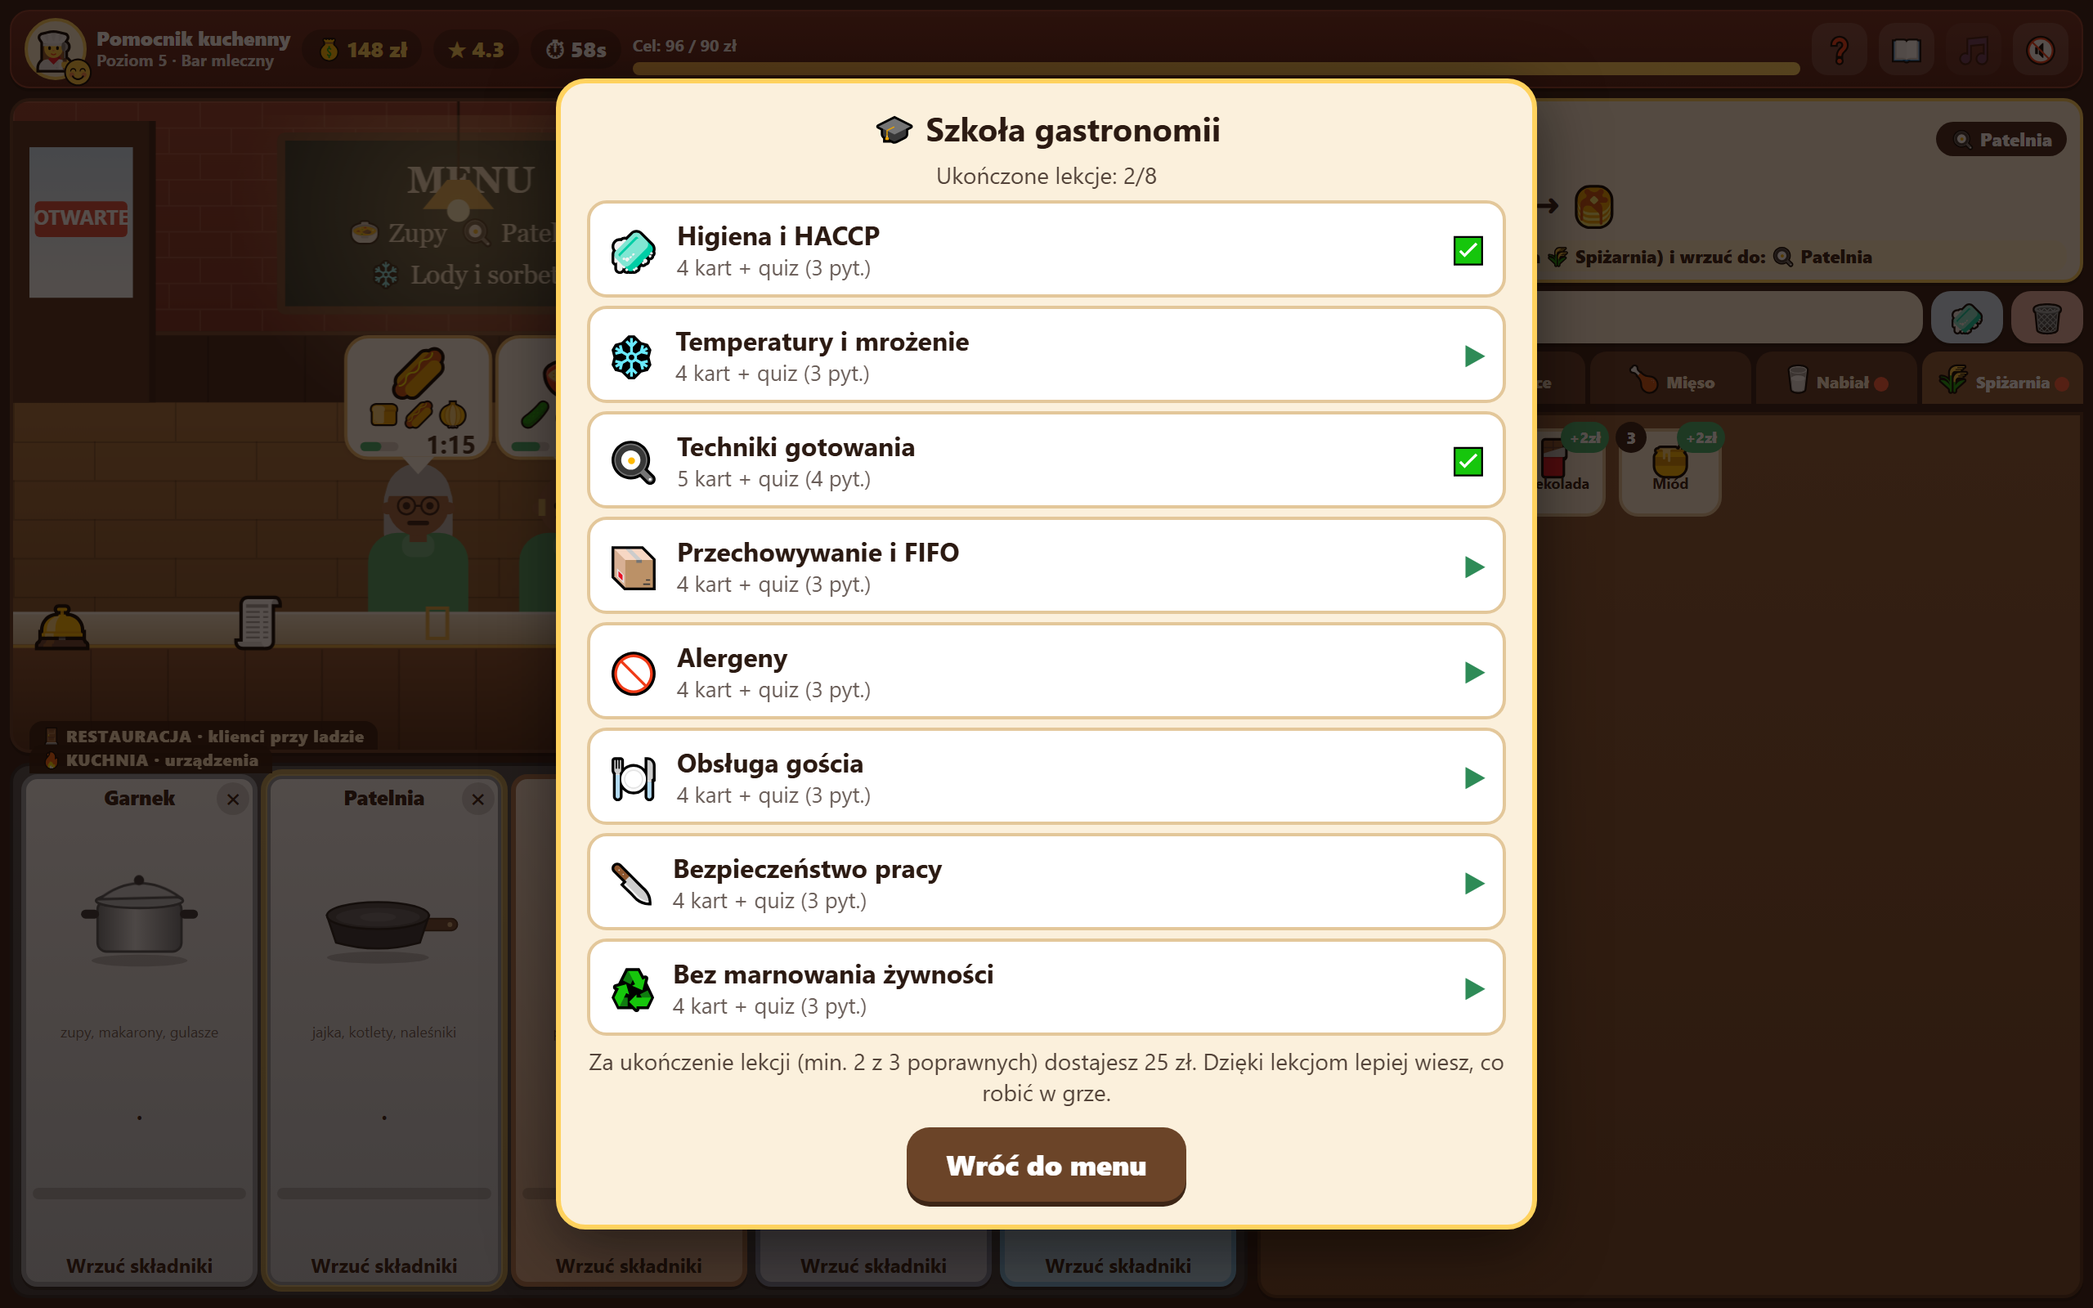
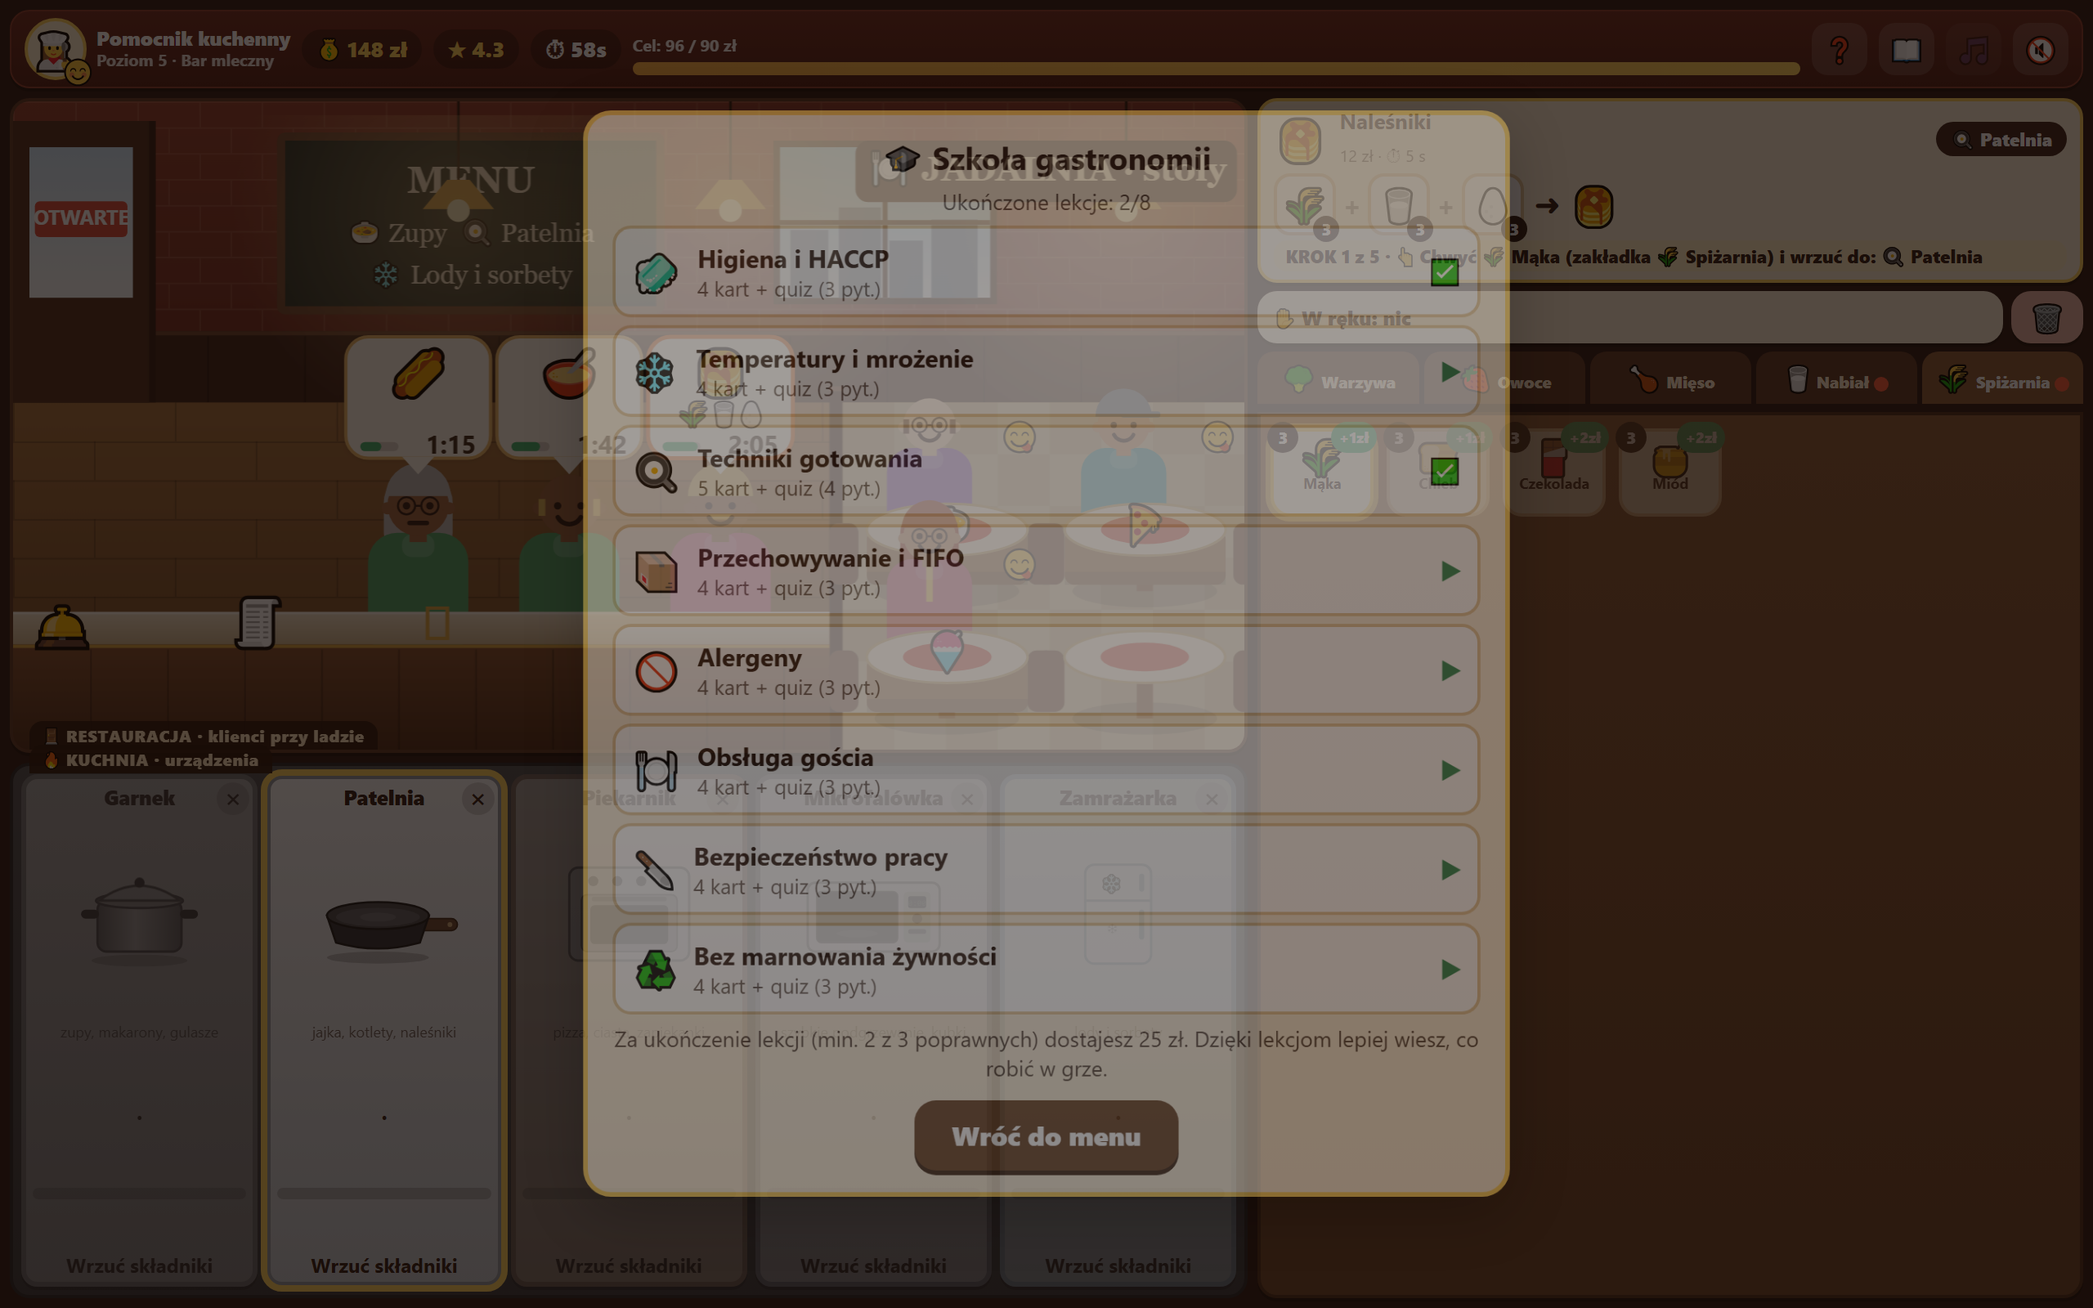
Pokazuj tylko to, co potrzebne w danym momencie: kroki, przyciemnienie, sortowanie

diff --git a/gotuj-i-mroz/android/app/src/main/assets/public/index.html b/gotuj-i-mroz/android/app/src/main/assets/public/index.html
@@ -188,6 +188,9 @@ button{font:inherit;color:inherit}
 #coach button.skip{background:#8a6a55;box-shadow:0 3px 0 #5a4030;font-size:12px;padding:6px 10px}
 #hhand{position:fixed;left:0;top:0;font-size:38px;line-height:1;pointer-events:none;z-index:40;display:none;filter:drop-shadow(0 4px 4px rgba(0,0,0,.5))}
 .st.micro{background:linear-gradient(#e8ecf3,#b3bccd);border-color:#6f7f9c}
+.st.dim{opacity:.5;filter:saturate(.5)}
+.tile.dimmed{opacity:.55}
+.rc-hint b{color:#b04a12}
 .st.drop{transform:scale(1.05);box-shadow:0 0 0 5px var(--gold),0 0 18px rgba(255,210,94,.9)}
 #ghost{position:fixed;left:0;top:0;pointer-events:none;font-size:46px;line-height:1;transform:translate(-50%,-70%) rotate(-8deg);z-index:30;display:none;filter:drop-shadow(0 8px 6px rgba(0,0,0,.45))}
 body.dragging,body.dragging *{cursor:grabbing!important}
@@ -1030,7 +1033,8 @@ function bubble(c){
   g.shadowColor="rgba(0,0,0,.35)";g.shadowBlur=6;
   g.fillStyle=c.type==="vip"?"#fff3cf":"#fffaf0";rr(g,bx,by,bw,bh,U*.7);g.fill();
   g.shadowBlur=0;
-  g.lineWidth=match?3:foc?2.5:2;g.strokeStyle=match?"#2fbf71":foc?"#f0762d":c.type==="vip"?"#e0a100":"#e8b86a";rr(g,bx,by,bw,bh,U*.7);g.stroke();
+  const urg=c.p/c.max<.2;
+  g.lineWidth=match?3:urg?3:foc?2.5:2;g.strokeStyle=match?"#2fbf71":urg?(Math.floor(performance.now()/300)%2?"#e5484d":"#ffb4a8"):foc?"#f0762d":c.type==="vip"?"#e0a100":"#e8b86a";rr(g,bx,by,bw,bh,U*.7);g.stroke();
   g.fillStyle=c.type==="vip"?"#fff3cf":"#fffaf0";g.beginPath();g.moveTo(c.x-U*.5,by+bh-1);g.lineTo(c.x,by+bh+U*.5);g.lineTo(c.x+U*.5,by+bh-1);g.fill();
   g.textAlign="center";g.textBaseline="middle";
   g.font=`${U*1.45}px ${EF}`;
@@ -1039,7 +1043,7 @@ function bubble(c){
     g.globalAlpha=o.got?.35:1;g.fillText(oEmoji(o),cx,by+U*1.25);
     g.globalAlpha=1;if(o.got)g.fillText("✅",cx,by+U*1.25);
   });
-  if(di>=0&&S.hints){
+  if(di>=0&&S.hints&&(c===S.focusC||S.q.length<=1)){
     const o=c.orders[di];g.font=`${U*.78}px ${EF}`;
     g.fillText(o.k==="rec"?R(o.rid).ing.map(i=>ING[i].e).join(""):"z "+ING[o.need].e+" ?"+(o.avoid?" 🚫"+AL[o.avoid].e:""),bx+bw/2,by+U*2.45);
   }
@@ -1108,6 +1112,10 @@ function render(){
     else if(S.hints){const nx=F.chips.find(x=>!x.done);if(nx){const cat=CATS.find(c=>c[0]===ING[nx.id].c);hint="👆 Chwyć "+ING[nx.id].e+" "+ING[nx.id].n+" (zakładka "+cat[1]+" "+cat[2]+") i wrzuć do: "+sn.e+" "+sn.name;}
       else if(F.st.state==="idle")hint="▶ Dotknij „"+STN[F.stIdx].btn.slice(2)+"” w urządzeniu";}
     else hint="📖 Sprawdź przepis w książce kucharskiej";
+    {const nD=F.chips.filter(x=>x.done).length,tot=F.chips.length+2;let cur=nD;
+      if(F.st.state==="cooking"||F.st.state==="done")cur=F.chips.length;
+      if(S.hand&&S.hand.t==="dish")cur=F.chips.length+1;
+      hint="KROK "+(cur+1)+" z "+tot+" · "+hint;}
     rc=`<div class="rc-head"><span class="rc-e">${r.e}</span><div><b>${r.name}</b><small>${r.price} zł · ⏱ ${r.time} s</small></div><span class="rc-st">${sn.e} ${sn.name}</span></div>`+
       (S.hints?`<div class="rc-row">${F.chips.map((x,i)=>{const stk=S.stock[x.id]||0,held=S.hand&&S.hand.t==="ing"&&S.hand.id===x.id&&!x.done;
         return (i?`<span class="rc-plus">+</span>`:"")+`<div class="chip ${x.done?"done":""} ${held?"held":""}" ${x.done?"":`data-act="ing" data-id="${x.id}"`}>${ING[x.id].e}<i>${x.done?"✓":stk}</i></div>`;}).join("")}
@@ -1125,7 +1133,8 @@ function render(){
     const slots=st.items.map(x=>ING[x].e).join("")||"·";
     const m=st.state==="idle"&&st.items.length>=2;
     const tgt=F&&!F.free&&F.stIdx===i&&st.state!=="cooking"?"target":"";
-    return `<div class="st ${def.cls} ${st.state} ${tgt}" data-act="station" data-i="${i}">
+    const dim=F&&!F.free&&F.stIdx!==i&&st.state==="idle"&&!st.items.length?"dim":"";
+    return `<div class="st ${def.cls} ${st.state} ${tgt} ${dim}" data-act="station" data-i="${i}">
       <button class="clr" data-act="clear" data-i="${i}">✖</button>
       <div class="nm">${def.name}</div><div class="big">${(st.state==="done"||st.state==="burnt")?`<span class="bigE">${big}</span>`:appSVG(def.type,st.state==="cooking")}</div><div class="what">${def.what}</div>
       <div class="slots">${slots}</div>
@@ -1139,15 +1148,15 @@ function render(){
     else h=`✋ <span class="he">${S.hand.dish.e}</span> ${S.hand.dish.name} · ${S.hand.q.l}`;
   }
   $("hand").innerHTML=h;
-  $("wash").classList.toggle("dirty",!!(hyg()&&S.dirty));$("wash").style.display=hyg()?"":"none";
+  $("wash").classList.toggle("dirty",!!(hyg()&&S.dirty));$("wash").style.display=(hyg()&&S.dirty)?"":"none";
   // spiżarnia
   const used=usedIng();
   const cats=CATS.filter(c=>[...used].some(i=>ING[i].c===c[0]));
   if(!cats.some(c=>c[0]===S.tab))S.tab=cats[0][0];
   $("tabs").innerHTML=cats.map(([k,ic,n])=>`<button class="tab ${S.tab===k?"on":""}" data-act="tab" data-id="${k}"><span class="ti">${ic}</span><span class="tl"> ${n}</span>${[...need].some(id=>ING[id].c===k)?`<span class="dot"></span>`:""}</button>`).join("");
-  $("tray").innerHTML=Object.keys(ING).filter(id=>ING[id].c===S.tab&&used.has(id)).map(id=>{
+  $("tray").innerHTML=Object.keys(ING).filter(id=>ING[id].c===S.tab&&used.has(id)).sort((a,b)=>(need.has(b)?1:0)-(need.has(a)?1:0)).map(id=>{
     const x=ING[id],n=S.stock[id]||0,held=S.hand&&S.hand.t==="ing"&&S.hand.id===id;
-    return `<div class="tile ${held?"held":""} ${n?"":"out"} ${need.has(id)&&!held?"need":""}" data-act="ing" data-id="${id}">
+    return `<div class="tile ${held?"held":""} ${n?"":"out"} ${need.has(id)&&!held?"need":""} ${need.size&&!need.has(id)&&!held?"dimmed":""}" data-act="ing" data-id="${id}">
       <span class="badge">${n}</span><button class="plus" data-act="buy" data-id="${id}">+${x.p}zł</button>
       <div class="te">${x.e}</div><div class="tn">${n?x.n:"Kup "+x.p+" zł"}</div></div>`;
   }).join("");

diff --git a/gotuj-i-mroz/index.html b/gotuj-i-mroz/index.html
@@ -188,6 +188,9 @@ button{font:inherit;color:inherit}
 #coach button.skip{background:#8a6a55;box-shadow:0 3px 0 #5a4030;font-size:12px;padding:6px 10px}
 #hhand{position:fixed;left:0;top:0;font-size:38px;line-height:1;pointer-events:none;z-index:40;display:none;filter:drop-shadow(0 4px 4px rgba(0,0,0,.5))}
 .st.micro{background:linear-gradient(#e8ecf3,#b3bccd);border-color:#6f7f9c}
+.st.dim{opacity:.5;filter:saturate(.5)}
+.tile.dimmed{opacity:.55}
+.rc-hint b{color:#b04a12}
 .st.drop{transform:scale(1.05);box-shadow:0 0 0 5px var(--gold),0 0 18px rgba(255,210,94,.9)}
 #ghost{position:fixed;left:0;top:0;pointer-events:none;font-size:46px;line-height:1;transform:translate(-50%,-70%) rotate(-8deg);z-index:30;display:none;filter:drop-shadow(0 8px 6px rgba(0,0,0,.45))}
 body.dragging,body.dragging *{cursor:grabbing!important}
@@ -1030,7 +1033,8 @@ function bubble(c){
   g.shadowColor="rgba(0,0,0,.35)";g.shadowBlur=6;
   g.fillStyle=c.type==="vip"?"#fff3cf":"#fffaf0";rr(g,bx,by,bw,bh,U*.7);g.fill();
   g.shadowBlur=0;
-  g.lineWidth=match?3:foc?2.5:2;g.strokeStyle=match?"#2fbf71":foc?"#f0762d":c.type==="vip"?"#e0a100":"#e8b86a";rr(g,bx,by,bw,bh,U*.7);g.stroke();
+  const urg=c.p/c.max<.2;
+  g.lineWidth=match?3:urg?3:foc?2.5:2;g.strokeStyle=match?"#2fbf71":urg?(Math.floor(performance.now()/300)%2?"#e5484d":"#ffb4a8"):foc?"#f0762d":c.type==="vip"?"#e0a100":"#e8b86a";rr(g,bx,by,bw,bh,U*.7);g.stroke();
   g.fillStyle=c.type==="vip"?"#fff3cf":"#fffaf0";g.beginPath();g.moveTo(c.x-U*.5,by+bh-1);g.lineTo(c.x,by+bh+U*.5);g.lineTo(c.x+U*.5,by+bh-1);g.fill();
   g.textAlign="center";g.textBaseline="middle";
   g.font=`${U*1.45}px ${EF}`;
@@ -1039,7 +1043,7 @@ function bubble(c){
     g.globalAlpha=o.got?.35:1;g.fillText(oEmoji(o),cx,by+U*1.25);
     g.globalAlpha=1;if(o.got)g.fillText("✅",cx,by+U*1.25);
   });
-  if(di>=0&&S.hints){
+  if(di>=0&&S.hints&&(c===S.focusC||S.q.length<=1)){
     const o=c.orders[di];g.font=`${U*.78}px ${EF}`;
     g.fillText(o.k==="rec"?R(o.rid).ing.map(i=>ING[i].e).join(""):"z "+ING[o.need].e+" ?"+(o.avoid?" 🚫"+AL[o.avoid].e:""),bx+bw/2,by+U*2.45);
   }
@@ -1108,6 +1112,10 @@ function render(){
     else if(S.hints){const nx=F.chips.find(x=>!x.done);if(nx){const cat=CATS.find(c=>c[0]===ING[nx.id].c);hint="👆 Chwyć "+ING[nx.id].e+" "+ING[nx.id].n+" (zakładka "+cat[1]+" "+cat[2]+") i wrzuć do: "+sn.e+" "+sn.name;}
       else if(F.st.state==="idle")hint="▶ Dotknij „"+STN[F.stIdx].btn.slice(2)+"” w urządzeniu";}
     else hint="📖 Sprawdź przepis w książce kucharskiej";
+    {const nD=F.chips.filter(x=>x.done).length,tot=F.chips.length+2;let cur=nD;
+      if(F.st.state==="cooking"||F.st.state==="done")cur=F.chips.length;
+      if(S.hand&&S.hand.t==="dish")cur=F.chips.length+1;
+      hint="KROK "+(cur+1)+" z "+tot+" · "+hint;}
     rc=`<div class="rc-head"><span class="rc-e">${r.e}</span><div><b>${r.name}</b><small>${r.price} zł · ⏱ ${r.time} s</small></div><span class="rc-st">${sn.e} ${sn.name}</span></div>`+
       (S.hints?`<div class="rc-row">${F.chips.map((x,i)=>{const stk=S.stock[x.id]||0,held=S.hand&&S.hand.t==="ing"&&S.hand.id===x.id&&!x.done;
         return (i?`<span class="rc-plus">+</span>`:"")+`<div class="chip ${x.done?"done":""} ${held?"held":""}" ${x.done?"":`data-act="ing" data-id="${x.id}"`}>${ING[x.id].e}<i>${x.done?"✓":stk}</i></div>`;}).join("")}
@@ -1125,7 +1133,8 @@ function render(){
     const slots=st.items.map(x=>ING[x].e).join("")||"·";
     const m=st.state==="idle"&&st.items.length>=2;
     const tgt=F&&!F.free&&F.stIdx===i&&st.state!=="cooking"?"target":"";
-    return `<div class="st ${def.cls} ${st.state} ${tgt}" data-act="station" data-i="${i}">
+    const dim=F&&!F.free&&F.stIdx!==i&&st.state==="idle"&&!st.items.length?"dim":"";
+    return `<div class="st ${def.cls} ${st.state} ${tgt} ${dim}" data-act="station" data-i="${i}">
       <button class="clr" data-act="clear" data-i="${i}">✖</button>
       <div class="nm">${def.name}</div><div class="big">${(st.state==="done"||st.state==="burnt")?`<span class="bigE">${big}</span>`:appSVG(def.type,st.state==="cooking")}</div><div class="what">${def.what}</div>
       <div class="slots">${slots}</div>
@@ -1139,15 +1148,15 @@ function render(){
     else h=`✋ <span class="he">${S.hand.dish.e}</span> ${S.hand.dish.name} · ${S.hand.q.l}`;
   }
   $("hand").innerHTML=h;
-  $("wash").classList.toggle("dirty",!!(hyg()&&S.dirty));$("wash").style.display=hyg()?"":"none";
+  $("wash").classList.toggle("dirty",!!(hyg()&&S.dirty));$("wash").style.display=(hyg()&&S.dirty)?"":"none";
   // spiżarnia
   const used=usedIng();
   const cats=CATS.filter(c=>[...used].some(i=>ING[i].c===c[0]));
   if(!cats.some(c=>c[0]===S.tab))S.tab=cats[0][0];
   $("tabs").innerHTML=cats.map(([k,ic,n])=>`<button class="tab ${S.tab===k?"on":""}" data-act="tab" data-id="${k}"><span class="ti">${ic}</span><span class="tl"> ${n}</span>${[...need].some(id=>ING[id].c===k)?`<span class="dot"></span>`:""}</button>`).join("");
-  $("tray").innerHTML=Object.keys(ING).filter(id=>ING[id].c===S.tab&&used.has(id)).map(id=>{
+  $("tray").innerHTML=Object.keys(ING).filter(id=>ING[id].c===S.tab&&used.has(id)).sort((a,b)=>(need.has(b)?1:0)-(need.has(a)?1:0)).map(id=>{
     const x=ING[id],n=S.stock[id]||0,held=S.hand&&S.hand.t==="ing"&&S.hand.id===id;
-    return `<div class="tile ${held?"held":""} ${n?"":"out"} ${need.has(id)&&!held?"need":""}" data-act="ing" data-id="${id}">
+    return `<div class="tile ${held?"held":""} ${n?"":"out"} ${need.has(id)&&!held?"need":""} ${need.size&&!need.has(id)&&!held?"dimmed":""}" data-act="ing" data-id="${id}">
       <span class="badge">${n}</span><button class="plus" data-act="buy" data-id="${id}">+${x.p}zł</button>
       <div class="te">${x.e}</div><div class="tn">${n?x.n:"Kup "+x.p+" zł"}</div></div>`;
   }).join("");

diff --git a/gotuj-i-mroz/www/index.html b/gotuj-i-mroz/www/index.html
@@ -188,6 +188,9 @@ button{font:inherit;color:inherit}
 #coach button.skip{background:#8a6a55;box-shadow:0 3px 0 #5a4030;font-size:12px;padding:6px 10px}
 #hhand{position:fixed;left:0;top:0;font-size:38px;line-height:1;pointer-events:none;z-index:40;display:none;filter:drop-shadow(0 4px 4px rgba(0,0,0,.5))}
 .st.micro{background:linear-gradient(#e8ecf3,#b3bccd);border-color:#6f7f9c}
+.st.dim{opacity:.5;filter:saturate(.5)}
+.tile.dimmed{opacity:.55}
+.rc-hint b{color:#b04a12}
 .st.drop{transform:scale(1.05);box-shadow:0 0 0 5px var(--gold),0 0 18px rgba(255,210,94,.9)}
 #ghost{position:fixed;left:0;top:0;pointer-events:none;font-size:46px;line-height:1;transform:translate(-50%,-70%) rotate(-8deg);z-index:30;display:none;filter:drop-shadow(0 8px 6px rgba(0,0,0,.45))}
 body.dragging,body.dragging *{cursor:grabbing!important}
@@ -1030,7 +1033,8 @@ function bubble(c){
   g.shadowColor="rgba(0,0,0,.35)";g.shadowBlur=6;
   g.fillStyle=c.type==="vip"?"#fff3cf":"#fffaf0";rr(g,bx,by,bw,bh,U*.7);g.fill();
   g.shadowBlur=0;
-  g.lineWidth=match?3:foc?2.5:2;g.strokeStyle=match?"#2fbf71":foc?"#f0762d":c.type==="vip"?"#e0a100":"#e8b86a";rr(g,bx,by,bw,bh,U*.7);g.stroke();
+  const urg=c.p/c.max<.2;
+  g.lineWidth=match?3:urg?3:foc?2.5:2;g.strokeStyle=match?"#2fbf71":urg?(Math.floor(performance.now()/300)%2?"#e5484d":"#ffb4a8"):foc?"#f0762d":c.type==="vip"?"#e0a100":"#e8b86a";rr(g,bx,by,bw,bh,U*.7);g.stroke();
   g.fillStyle=c.type==="vip"?"#fff3cf":"#fffaf0";g.beginPath();g.moveTo(c.x-U*.5,by+bh-1);g.lineTo(c.x,by+bh+U*.5);g.lineTo(c.x+U*.5,by+bh-1);g.fill();
   g.textAlign="center";g.textBaseline="middle";
   g.font=`${U*1.45}px ${EF}`;
@@ -1039,7 +1043,7 @@ function bubble(c){
     g.globalAlpha=o.got?.35:1;g.fillText(oEmoji(o),cx,by+U*1.25);
     g.globalAlpha=1;if(o.got)g.fillText("✅",cx,by+U*1.25);
   });
-  if(di>=0&&S.hints){
+  if(di>=0&&S.hints&&(c===S.focusC||S.q.length<=1)){
     const o=c.orders[di];g.font=`${U*.78}px ${EF}`;
     g.fillText(o.k==="rec"?R(o.rid).ing.map(i=>ING[i].e).join(""):"z "+ING[o.need].e+" ?"+(o.avoid?" 🚫"+AL[o.avoid].e:""),bx+bw/2,by+U*2.45);
   }
@@ -1108,6 +1112,10 @@ function render(){
     else if(S.hints){const nx=F.chips.find(x=>!x.done);if(nx){const cat=CATS.find(c=>c[0]===ING[nx.id].c);hint="👆 Chwyć "+ING[nx.id].e+" "+ING[nx.id].n+" (zakładka "+cat[1]+" "+cat[2]+") i wrzuć do: "+sn.e+" "+sn.name;}
       else if(F.st.state==="idle")hint="▶ Dotknij „"+STN[F.stIdx].btn.slice(2)+"” w urządzeniu";}
     else hint="📖 Sprawdź przepis w książce kucharskiej";
+    {const nD=F.chips.filter(x=>x.done).length,tot=F.chips.length+2;let cur=nD;
+      if(F.st.state==="cooking"||F.st.state==="done")cur=F.chips.length;
+      if(S.hand&&S.hand.t==="dish")cur=F.chips.length+1;
+      hint="KROK "+(cur+1)+" z "+tot+" · "+hint;}
     rc=`<div class="rc-head"><span class="rc-e">${r.e}</span><div><b>${r.name}</b><small>${r.price} zł · ⏱ ${r.time} s</small></div><span class="rc-st">${sn.e} ${sn.name}</span></div>`+
       (S.hints?`<div class="rc-row">${F.chips.map((x,i)=>{const stk=S.stock[x.id]||0,held=S.hand&&S.hand.t==="ing"&&S.hand.id===x.id&&!x.done;
         return (i?`<span class="rc-plus">+</span>`:"")+`<div class="chip ${x.done?"done":""} ${held?"held":""}" ${x.done?"":`data-act="ing" data-id="${x.id}"`}>${ING[x.id].e}<i>${x.done?"✓":stk}</i></div>`;}).join("")}
@@ -1125,7 +1133,8 @@ function render(){
     const slots=st.items.map(x=>ING[x].e).join("")||"·";
     const m=st.state==="idle"&&st.items.length>=2;
     const tgt=F&&!F.free&&F.stIdx===i&&st.state!=="cooking"?"target":"";
-    return `<div class="st ${def.cls} ${st.state} ${tgt}" data-act="station" data-i="${i}">
+    const dim=F&&!F.free&&F.stIdx!==i&&st.state==="idle"&&!st.items.length?"dim":"";
+    return `<div class="st ${def.cls} ${st.state} ${tgt} ${dim}" data-act="station" data-i="${i}">
       <button class="clr" data-act="clear" data-i="${i}">✖</button>
       <div class="nm">${def.name}</div><div class="big">${(st.state==="done"||st.state==="burnt")?`<span class="bigE">${big}</span>`:appSVG(def.type,st.state==="cooking")}</div><div class="what">${def.what}</div>
       <div class="slots">${slots}</div>
@@ -1139,15 +1148,15 @@ function render(){
     else h=`✋ <span class="he">${S.hand.dish.e}</span> ${S.hand.dish.name} · ${S.hand.q.l}`;
   }
   $("hand").innerHTML=h;
-  $("wash").classList.toggle("dirty",!!(hyg()&&S.dirty));$("wash").style.display=hyg()?"":"none";
+  $("wash").classList.toggle("dirty",!!(hyg()&&S.dirty));$("wash").style.display=(hyg()&&S.dirty)?"":"none";
   // spiżarnia
   const used=usedIng();
   const cats=CATS.filter(c=>[...used].some(i=>ING[i].c===c[0]));
   if(!cats.some(c=>c[0]===S.tab))S.tab=cats[0][0];
   $("tabs").innerHTML=cats.map(([k,ic,n])=>`<button class="tab ${S.tab===k?"on":""}" data-act="tab" data-id="${k}"><span class="ti">${ic}</span><span class="tl"> ${n}</span>${[...need].some(id=>ING[id].c===k)?`<span class="dot"></span>`:""}</button>`).join("");
-  $("tray").innerHTML=Object.keys(ING).filter(id=>ING[id].c===S.tab&&used.has(id)).map(id=>{
+  $("tray").innerHTML=Object.keys(ING).filter(id=>ING[id].c===S.tab&&used.has(id)).sort((a,b)=>(need.has(b)?1:0)-(need.has(a)?1:0)).map(id=>{
     const x=ING[id],n=S.stock[id]||0,held=S.hand&&S.hand.t==="ing"&&S.hand.id===id;
-    return `<div class="tile ${held?"held":""} ${n?"":"out"} ${need.has(id)&&!held?"need":""}" data-act="ing" data-id="${id}">
+    return `<div class="tile ${held?"held":""} ${n?"":"out"} ${need.has(id)&&!held?"need":""} ${need.size&&!need.has(id)&&!held?"dimmed":""}" data-act="ing" data-id="${id}">
       <span class="badge">${n}</span><button class="plus" data-act="buy" data-id="${id}">+${x.p}zł</button>
       <div class="te">${x.e}</div><div class="tn">${n?x.n:"Kup "+x.p+" zł"}</div></div>`;
   }).join("");
